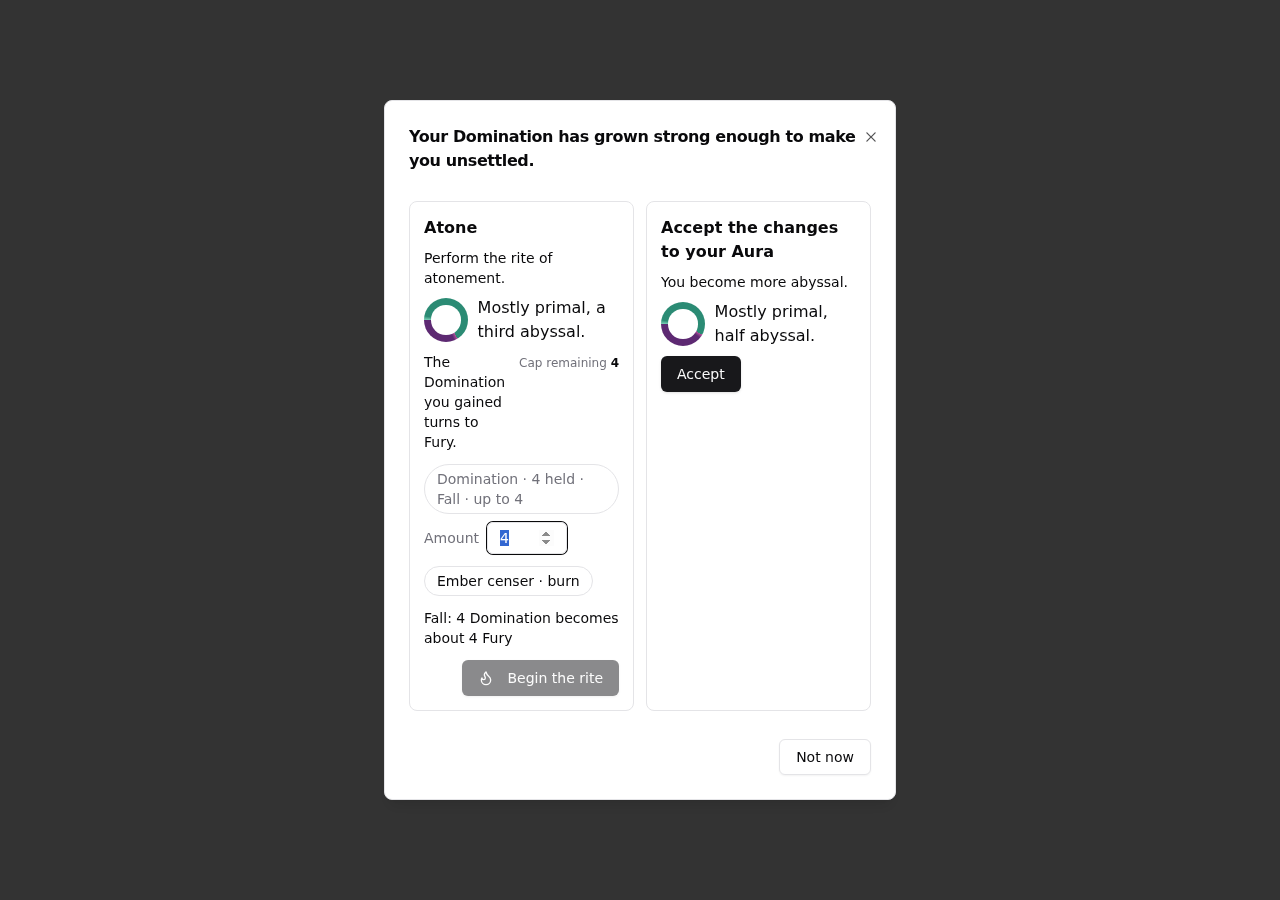
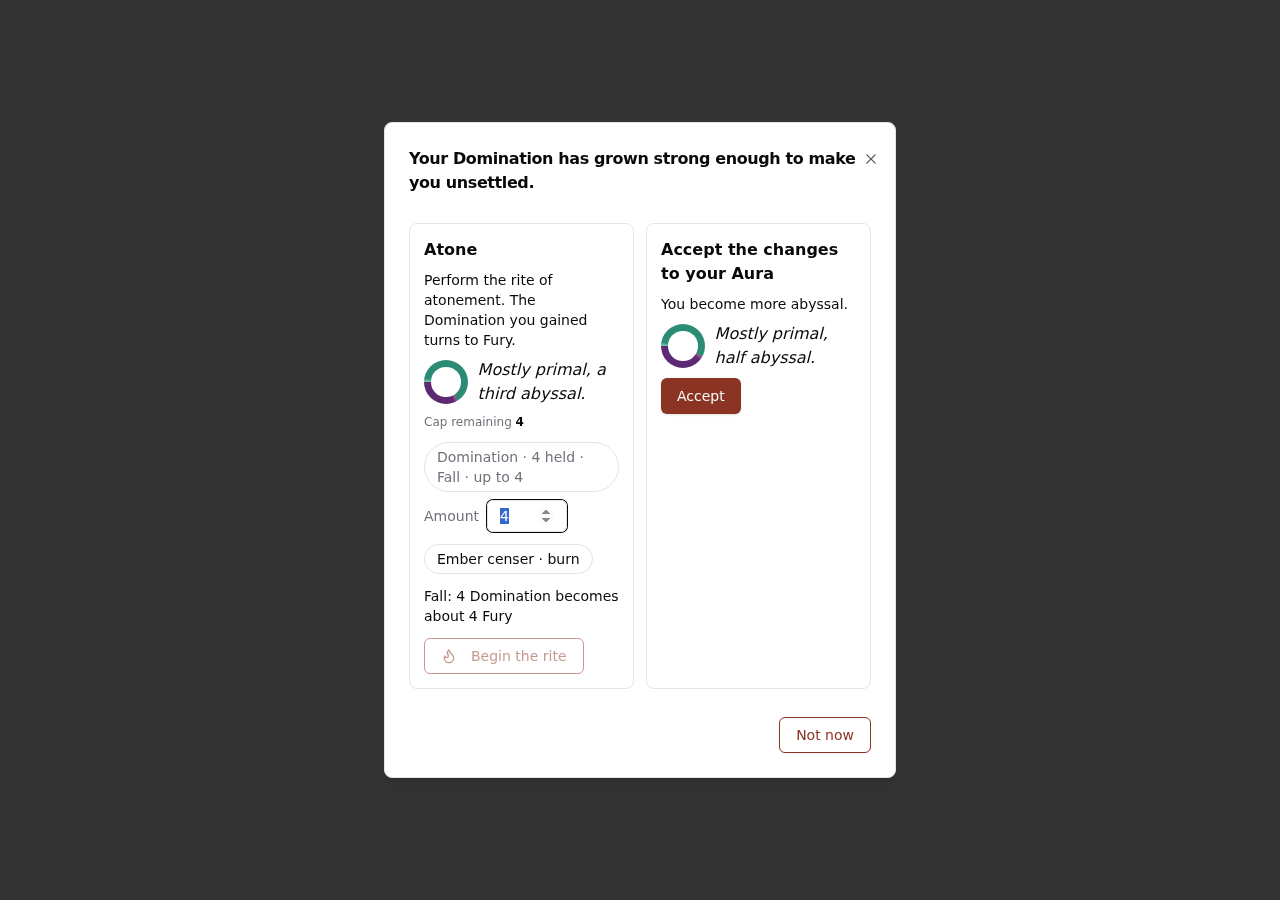
Demo fidelity re-review for #5123 after the fixes

diff --git a/docs/reviews/issue-5123/demo-fidelity.md b/docs/reviews/issue-5123/demo-fidelity.md
@@ -1,114 +1,88 @@
-# Demo fidelity review: #5123 "A character with several resonances"
+# Demo fidelity review: #5123 "A character with several resonances" (round 2, after the fixes)
 
-**Verdict: FAIL** (defects below; no BLOCKED criterion hides a pass). Nothing here is a
-rewrite of the design: every FAIL is a place where the built surface disagrees with the
-approved demo and nothing later in the issue overrides the demo.
+**Verdict: PASS** for everything rendered. All six defects from round 1 (F1 to F6) are
+fixed and re-checked on screen, and the two divergences the fixes were meant to close
+(the settled ring, the Gift thread in the Pull Threads dialog) now match the demo. What is
+left is four open scope questions for the human (S1 to S4 below) and the BLOCKED items in
+"Not exercised"; none of them is a rendered defect the fixes could have closed.
 
 ## Identity of what was reviewed
 
 | Item | Value |
 |---|---|
-| Reviewed commit | `29881d52b78db8efb8619966e3282e4539794f8d` (branch `feature-5123-a-character-with-several-resonances-mixe`, rebased on origin/main). This is the first parent of the evidence commit. |
-| Approved design | Demo, round 3: https://claude.ai/artifact/CghH6yiEwjFns6E8nLrs1Y (linked from the issue body, "Demo (approved direction, round 3)"). Read from the local copy of the published source, `issue-5123-several-resonances.html` (493 lines, read in full). |
-| Issue rulings read | Issue body and comments (`gh issue view 5123`). Spec rulings 15-18 (intro text, spec'd halo, Unsettled wording) and the Frontend list. No comment overrides the demo on any item below. |
-| Environment | Local workstation, Chromium headless shell (Playwright 1.65 driving the installed 1208 build), vite dev server on :5199 serving the real app code at the reviewed commit. No Evennia server, no :4001/:4002, no database created (`rt_5123` was never made; `dropdb --if-exists` confirmed). |
-| Viewport and theme | 1280 x 900, light theme, for the demo and the app. One dark-theme pair for the unsettled aura. Web fonts could not load (no network), so serif/sans fallbacks stand in on **both** sides. 390 x 900 for one Settle dialog shot. |
-| Fixture versus live | **Everything the app drew was fixture data.** Every `/api/**` call was answered by Playwright route fixtures shaped like the serializers (types from `frontend/src/generated/api.d.ts`; the CG fixtures are the repo's own `character-creation/__tests__/fixtures.ts`). The frontend code, CSS, routing, providers and React Query were real. No live backend was exercised for any UI shot. |
-| Real pages versus harness | Screen 1: the real `/characters/create` page, Gift stage. Screen 3 and the Accept-only dialog: the real `/characters/1` sheet, Magic section. Screen 2 (Pull Threads dialog, Pull picker) and Screen 4's scene dialog (Atone + Accept): **a throwaway harness** that mounts the real `ThreadPullDialog`, `ThreadPullPicker` and `SettleAuraDialog` under the app's real providers and `index.css`, because those are reached in play only through combat or a live scene. See "Not exercised". |
-| Capture sources | `capture-spec.ts.txt`, `capture-harness.tsx.txt`, `capture-config.ts.txt` in this directory (renamed `.txt` so no linter or test runner picks them up). To rerun: copy the spec to `frontend/e2e/evidence/review-5123.spec.ts`, the harness to `frontend/src/review5123.tsx` plus a root `review5123.html` that loads it, start `pnpm exec vite --port 5199`, run Playwright with the config. |
-| Backend check (Screen 5) | `just test-fast world.character_creation.tests.test_weighted_resonances`: 16 tests, OK, run at the reviewed commit. Its assertions, not its pass count, are what is compared below. |
+| Reviewed commit | `02979e9ea1d0f14612e5e703c4a63287213dbf2b` (branch `feature-5123-a-character-with-several-resonances-mixe`). It is the first parent of this evidence commit. Round 1 reviewed `29881d52b`; the fixes are `291592a07` and `02979e9ea`, on top of round 1's own evidence commit `4bf61de4b`. |
+| Approved design | Demo, round 3: https://claude.ai/artifact/CghH6yiEwjFns6E8nLrs1Y (linked from the issue body). Read from the local copy of the published source, `issue-5123-several-resonances.html` (493 lines, read in full in round 1; re-rendered unchanged this round). |
+| Issue rulings read | Issue body and comments (`gh issue view 5123`): spec rulings 15-18 and the Frontend list. No comment overrides the demo on any item below. The fix notes (`.superpowers/sdd/plan-5123/demo-fix-report.md`) were read for what was changed, not trusted for what renders. |
+| Environment | Local workstation. Chromium headless shell (Playwright 1.65 driving the installed 1208 build). vite dev server on :5199 serving the real app code at the reviewed commit. No Evennia server, nothing on :4001/:4002, no database created (`rt_5123` was never made). |
+| Viewport and theme | 1280 x 900, light theme, for the demo and the app. One dark pair for the unsettled aura. 390 x 900 for one Settle dialog shot. Web fonts could not load (no network), so serif/sans fallbacks stand in on **both** sides. |
+| Fixture versus live | **Everything the app drew was fixture data**: every `/api/**` call answered by Playwright route fixtures shaped like the serializers (types from `frontend/src/generated/api.d.ts`; the CG fixtures are the repo's own `character-creation/__tests__/fixtures.ts`). The frontend code, CSS, routing, providers and React Query were real. No live backend answered any UI shot. |
+| Real pages versus harness | Screen 1: the real `/characters/create` page, Gift stage. Screen 3 and the Accept-only dialog: the real `/characters/1` sheet, Magic section. Screen 2 (Pull Threads dialog, Pull picker) and Screen 4's scene dialog (Atone + Accept): **a throwaway harness** mounting the real `ThreadPullDialog`, `ThreadPullPicker` and `SettleAuraDialog` under the app's real providers and `index.css`, because those are reached in play only through combat or a live scene. |
+| Capture sources | `capture-spec.ts.txt`, `capture-harness.tsx.txt`, `capture-config.ts.txt` in this directory (renamed `.txt` so no linter or runner picks them up). To rerun: copy the spec to `frontend/e2e/evidence/review-5123.spec.ts`, the harness to `frontend/src/review5123.tsx` plus a root `review5123.html` that loads it, start `pnpm exec vite --port 5199`, run Playwright with the config. |
+| Backend check (Screen 5) | Not re-run this round: the fixes touch frontend files only (`git diff 4bf61de4b..HEAD --stat` lists no backend file). Round 1's run of `world.character_creation.tests.test_weighted_resonances` (16 tests, OK) stands for the rows. |
+| Screenshots | All 37 PNGs in this directory were deleted and re-captured at the reviewed commit. `demo-*.png` come from the demo's own page, `app-*.png` from the app. The dialog Gift-thread case is in them: the fixture now offers the Gift thread and the spec ticks it. |
 
-Screenshots are committed beside this report. Demo images are rendered from the demo's
-own page at the same viewport and theme (`demo-*.png`); app images are `app-*.png`.
+## Round 1 defects, re-checked
 
-## Defect list (FAIL items)
-
-| # | Screen | Finding | Where |
+| # | Was | Now | Evidence |
 |---|---|---|---|
-| F1 | 3 (Sineater) | The aura sentence contradicts the halo it sits beside. Fixture: Celestial 56, Abyssal 44, a third of everything from the Mire. The halo draws half celestial, a little own-abyssal, a big Mire stretch (correct). The sentence says "Nearly all celestial, a tenth abyssal. A third of what you have gained came from the Mire." The demo says "Half celestial. A little abyssal of your own, and a darker share taken from the Mire." Cause: `AuraHalo` lifts the Mire out of the Abyssal share (`splitMire`), then builds the sentence from the shares left over (`auraSentence(own)`), so every share is read against a smaller whole than the halo uses. | `frontend/src/magic/components/AuraHalo.tsx` (`splitMire`, `split`), `frontend/src/magic/aura.ts` (`auraSentence`) |
-| F2 | 4 (Atone card) | The Atone exit puts the line "The Domination you gained turns to Fury." **after** the halo and squeezes it into a 5-line column beside "Cap remaining 4"; the demo makes it the second sentence of the exit's opening line. "Begin the rite" is a right-aligned solid button (greyed until a component is picked); the demo draws it as a left-aligned outline button. Wording, order and cramp are the defect. (See ruling R4: the rite's controls themselves are not.) | `SettleAuraDialog.tsx` (`CapBlock`, the `settle-exit-atone` section) |
-| F3 | 4 (opened from the sheet) | With only the Accept exit, its card fills the left half of a two-column grid and the right half is empty. The demo's frame shows the exit full width. | `SettleAuraDialog.tsx` (`grid gap-3 sm:grid-cols-2` with one child) |
-| F4 | 4 (colour of actions) | In the Settle dialog "Accept" and "Not now" render near-black / neutral, while the demo draws rust (`Accept` solid rust, `Not now` rust outline) and the sheet's own "Settle your aura" button beside it is rust. The dialog portals outside `.refsheet`, which carries the rust fallback ("the sheet route never establishes a realm", `sheet.css`), so a visitor with no realm set reaches this. | `SettleAuraDialog.tsx`, `character_sheets/sheet.css` (`:root:not([data-realm]) .refsheet`) |
-| F5 | 1 (aura label) | "Your aura" sits **below** the halo sentence; the demo puts it above, as a small caps label over an italic sentence. The sentence is also upright where the demo's is italic. Ruled below (R1): defect, small. | `ResonanceWeights.tsx` (label passed as `children`, which `AuraHalo` renders after the words) |
-| F6 | 2 (perk rows) | Perk rows are plain text lines. The demo draws each as a shaded bar with the value right-aligned and the narrative snippet as a second line inside it. Values sit next to the label instead of in a right column, so a column of values does not read down. | `PayerOptions.tsx` (`PerkRows`) |
+| F1 | Sineater sentence read "Nearly all celestial, a tenth abyssal" beside a halo of about half celestial | **FIXED.** Reads "Half celestial, a tenth abyssal. A third of what you have gained came from the Mire." Same fixture (Celestial 56, Abyssal 44, a third from the Mire). The sentence now agrees with the halo; the key "your own / from the Mire" is under it. | `app-screen3-sineater.png` |
+| F2 | Atone: the "turns to Fury" line below the halo and cramped; Begin the rite a right-aligned solid button | **FIXED.** The card opens "Perform the rite of atonement. The Domination you gained turns to Fury." in one paragraph; "Cap remaining 4" is a small muted line; "Begin the rite" is a left-aligned rust outline button (shown pale here because no component is picked, so it is disabled). The rite's controls are still between the halo and the button, ruled justified in round 1. | `app-screen4-scene-atone-and-accept-1280.png`, `-390.png` |
+| F3 | Lone Accept card filled half of a two-column grid | **FIXED.** From the sheet the Accept card spans the dialog. With both exits they sit two-up at 1280 and stack at 390. | `app-screen4-sheet-accept-only.png`, `app-screen4-scene-atone-and-accept-*.png` |
+| F4 | Accept and Not now black and neutral | **FIXED.** Accept is solid rust, Not now and Begin the rite are rust outlines, on the sheet route with no realm set (the state that failed). | `app-screen4-sheet-accept-only.png`, `app-screen4-sheet-after-accept.png` |
+| F5 | "Your aura" below the sentence; sentence upright | **FIXED.** "YOUR AURA" is a small caps label above an italic sentence. | `app-screen1-resonance-step.png` |
+| F6 | Plain text perk rows | **FIXED.** Each perk is a shaded bar, label left, value right-aligned, the narrative snippet a second line inside the bar. Applies in the dialog and the picker. | `app-screen2-dialog-fury-pays.png`, `app-screen2-picker.png` |
+| S1 | `ThreadPullDialog` never offered a Gift thread | **FIXED.** The Pull Threads dialog lists "Pyromancy" (a Gift thread) with the other threads, and ticking it shows its Pay with list (Fury, Domination, Wonder) with the perks per resonance, the makeup line "Level 3 - mostly Fury, some Domination", Inspect perks, and the cost line. The request carried the payer (`payers: {"1": 13}`). | `app-screen2-dialog-initial.png`, `-fury-pays.png`, `-domination-pays.png`, `-inspect-perks.png` |
+| S2 | Settled ring drawn in the settled affinities' colours | **FIXED.** One thin neutral dashed ring, as in the demo; while unsettled it is tinted in the glow of the affinity unsettling the character (the pink-violet ring in the unsettled frame, as in the demo's). Neutral on the settled and faded halos. | `app-screen3-*.png`, `app-dark-screen3-unsettled.png` |
 
-## Scope questions for the human (not counted as FAIL)
+## Open scope questions for the human (not counted as FAIL)
 
-- **S1. The Pull Threads dialog never offers a Gift thread.** The demo's Screen 2 example is
-  "Gift thread - Pyromancy", reached in "Cast - Pull threads". `ThreadPullDialog.tsx`
-  `isThreadEligible` (unchanged by this PR) offers only relationship, facet and covenant
-  threads, plus trait/technique threads in combat. A Gift thread in the fixture is absent from
-  the dialog (`app-screen2-dialog-initial.png`: two threads listed, no Pyromancy). The
-  picker (`ThreadPullPicker`, scenes) does show it with the full Pay with choice
-  (`app-screen2-picker.png`). So the Gift thread, the one thread every mixed character
-  starts with, cannot be pulled with a payer choice from the dialog. The spec lists both
-  files; it does not say the dialog may stay narrower. Decide: widen the dialog or write down
-  that casting reaches Gift threads only through the picker.
-- **S2. Settled ring colours.** The demo draws "who the character is" as one thin neutral
-  dashed ring (abyssal-tinted only in the unsettled state). The build draws it as dashed arcs
-  in the settled affinities' own colours. It reads well and carries more (a faded streak's
-  purple arc survives, `app-screen3-faded.png`), but it is not what was approved, and no
-  ruling records it. The approved colours themselves are exact (see R3).
-- **S3. Atone preview.** The Atone exit's mini halo draws the settled shares ("who you
-  are"), which is the best case of a full atonement. The rite's actual result depends on
-  the check, so the preview is an upper bound. The demo shows the same picture, so this is
-  noted, not a defect.
-- **S4. Exit arrangement.** The demo's dialog frame stacks the two exits; the build puts them
-  side by side from the `sm` breakpoint (stacked at 390 wide, `app-screen4-scene-atone-and-accept-390.png`).
-  The demo's own `.exits` grid is auto-fit, so side by side is a fair reading. Noted.
-
-## Rulings on the divergences named in the brief
-
-- **R1. Screen 1 step label and heading.** The build renames the funnel step "Your
-  Resonance" (rendered as the entry name, with the tag "Step 4 of 5") and drops the demo's
-  "IV - Resonance" label and the separate h3. The funnel is an existing five-entry grammar
-  (`GiftStage.tsx` `FunnelStep`: Tradition, Gift, Techniques, Your Resonance, Anima Check,
-  each tagged "Step n of 5"), so a roman-numeral stage label on one step would be the odd one
-  out. The words "Your Resonance" are present; the intro copy is present word for word.
-  **Ruling: acceptable, not a defect.** It is not recorded in the spec; the human may
-  want it written down. The "Your aura" label placement **is** a defect (F5).
-- **R2. Screen 3 colours.** MATCH. `sheet.css` defines the approved tokens on `:root` and the
-  rendered page resolves them: Celestial `#e6c55a`, Primal `#2f8a74`, Abyssal `#5b2a6f`,
-  Mire `#4b4a35`, with the demo's glows (`#fff1b8`, `#7fd1b9`, `#b0559a`, `#8a8660`). Read
-  off the running page (`getComputedStyle(:root)`), and the halo's computed
-  `background-image` is a conic gradient in `rgb(47,138,116)`, `rgb(91,42,111)` and
-  `rgb(127,209,185)` (primal, abyssal, primal glow). Both the CG preview and the sheet reach
-  them because `AuraHalo` imports `sheet.css`; the tokens are not left to a stylesheet linked
-  only from another page.
-- **R3. Screen 4 Atone card layout.** Split: the rite's controls (source chip, amount,
-  component pills, rate line, cap) are today's drift-correction rite and are required to
-  run it; the demo omitted them for space. That part is justified. Order, cramp and button
-  style are F2.
+- **S1. The demo's "Lasts" row.** The Inspect perks panel in the demo shows "Lasts: until
+  the end of the round" under a perk. The build has no such row, and `ResolvedPullEffect`
+  carries no duration field. The issue never mentions it. It is an unbuilt demo
+  affordance nobody wrote down: either add the field and the row or strike it from the
+  approved design. (The panel also shows "Amount" where the demo says "Strength", and
+  adds a "Worked out: 2 x 1" row; the demo flags its copy as placeholder.)
+- **S2. Pull Threads dialog colours with no realm.** The dialog's selected tier and its
+  confirm button render near-black in the harness, where the demo draws them rust. The
+  dialog's primary is the realm's, and nothing sets a realm in the harness (the same
+  cause as F4, which the fixes closed for the Settle dialog only). Whether a real game
+  session has a realm set is not visible from here. If one can reach the dialog with none, it
+  needs the same fallback.
+- **S3. Step label on Screen 1.** Ruled acceptable in round 1 and still the case: the
+  step is "Your Resonance" with the tag "Step 4 of 5" in the funnel; the demo's "IV -
+  Resonance" label and separate h3 are not drawn. Not recorded in the spec.
+- **S4. Atone preview.** The Atone card's mini halo draws who the character is, the best
+  case of a full atonement; the rite's real result depends on the check. The demo draws
+  the same picture. Noted.
 
 ## Visual checklist
 
 `MATCH` = compared by eye, demo and app, same viewport and theme, and the same. `DIFF` =
-differs (finding noted). `N/A` = demo annotation, not UI.
+differs (reason noted). `N/A` = demo annotation, not UI.
 
-### Screen 1: Character creation, Gift stage (demo `demo-frame-01.png`, `demo-screen1.png`; app `app-screen1-10of10-1280.png`, `app-screen1-resonance-step.png`, `app-screen1-9of10-1280.png`)
+### Screen 1: Character creation, Gift stage (demo `demo-frame-01.png`, `demo-screen1.png`; app `app-screen1-10of10-1280.png`, `app-screen1-resonance-step.png`, `app-screen1-9of10-1280.png`, `app-screen1-complete-step-closed-1280.png`)
 
 | Demo element | Result |
 |---|---|
 | Player-screen frame bar | N/A (demo chrome) |
-| "IV - Resonance" step label | DIFF, ruled acceptable (R1): app shows "Step 4 of 5" in the funnel entry |
-| "Your Resonance" heading | MATCH in words; it is the funnel entry name, not an h3 (R1) |
+| "IV - Resonance" step label | DIFF, ruled acceptable (S3): the app's step tag reads "Step 4 of 5" |
+| "Your Resonance" heading | MATCH in words; it is the funnel entry name (S3) |
 | Intro paragraph 1 ("Resonance is what powers your magic ...") | MATCH, word for word |
 | Intro paragraph 2 ("Most people are moved by more than one thing ...") | MATCH |
-| Budget line "10 of 10 placed" | MATCH (`aria-live` line; reads "9 of 10 placed" mid-spread) |
-| Fury row: name, PRIMAL tag, - button, six pips, + button | MATCH (buttons are grey outlines, not primary-coloured outlines; cosmetic) |
+| Budget line "10 of 10 placed" | MATCH (reads "9 of 10 placed" mid-spread) |
+| Fury row: name, PRIMAL tag, - button, six pips, + button | MATCH (the buttons are grey outlines, not rust outlines; cosmetic, same as round 1) |
 | Wonder row: one pip | MATCH |
 | Domination row: ABYSSAL, three pips | MATCH |
-| Mercy row: CELESTIAL, only a + button | MATCH (+ is greyed at a full budget, a state the demo does not show; correct behaviour) |
-| Row description and codex line | MATCH (rows show descriptions; demo says it left them out for space and "as today") |
-| Halo, primal/abyssal with glow edges | MATCH (same proportions, same colours, same ring thickness) |
-| "Your aura" label above the sentence | DIFF (F5) |
-| Sentence "Mostly primal, a third abyssal." | MATCH in words; upright, not italic (F5) |
+| Mercy row: CELESTIAL, only a + button | MATCH (+ greyed at a full budget, a state the demo does not show) |
+| Row description and codex line | MATCH (the demo says it left them out for space and "as today") |
+| Halo, primal/abyssal with glow edges | MATCH (same proportions, colours, ring thickness) |
+| "Your aura" label above the sentence | MATCH (F5 fixed) |
+| Sentence "Mostly primal, a third abyssal." | MATCH, italic |
 
 Tested interactions: from 9 of 10 placed (Fury 6, Wonder 1, Domination 2) pressed "More
-Domination"; the draft PATCH carried the new weights, the line read "10 of 10 placed", the
+Domination": the draft PATCH carried the new weights, the line read "10 of 10 placed", the
 aura sentence moved from "a fifth abyssal" to "a third abyssal", the + buttons locked, and
-the step closed itself as done (`app-screen1-complete-step-closed-1280.png`); reopened by
-pressing the step name. No page errors.
+the step closed itself as done; reopened by pressing the step name. No page errors.
 
 ### Screen 2: Pulling threads (demo `demo-frame-02.png`, `demo-frame-03.png`, `demo-screen2.png`; app `app-screen2-dialog-*.png`, `app-screen2-inspect-*.png`, `app-screen2-picker.png`)
 
@@ -116,26 +90,26 @@ pressing the step name. No page errors.
 |---|---|
 | Title "Cast - Pull threads" | DIFF in wording only: "Pull Threads" (existing dialog title) |
 | Tier 1 / 2 / 3, tier 2 selected | MATCH in behaviour; labels read "Tier 1", "Tier 2" |
-| Gift thread card with makeup "Level 3 - mostly Fury, some Domination" | DIFF for the dialog (S1: no Gift thread offered); MATCH in the picker (`app-screen2-picker.png`); a Facet thread with the same two resonances shows the makeup line in the dialog |
+| Gift thread "Pyromancy" with "Level 3 - mostly Fury, some Domination" | MATCH in the dialog and in the picker (S1 round 1 fixed) |
 | "Pay with" label and three payers, starting on the leading one | MATCH (Fury selected first) |
-| Payer row: radio, name, "3 Fury - you have 22" | MATCH, cost line word for word |
-| Fury perks: Bonus to this cast +4; Intensity +2 with its snippet | MATCH in content (F6: not shaded bars) |
-| Domination perks: Cowed, Bonus +2 with snippet | MATCH in content; "Grants Cowed 2" where the demo says "Grants Cowed against your target 2" (placeholder copy, noted) |
+| Payer row: radio, name, "3 Fury - you have 22" | MATCH, word for word |
+| Fury perks: Bonus to this cast +4; Intensity +2 with its snippet | MATCH, shaded bars with right-aligned values (F6 fixed) |
+| Domination perks: Cowed, Bonus +2 with snippet | MATCH; "Grants Cowed 2" where the demo says "Grants Cowed against your target 2" (placeholder copy) |
 | Wonder: "No perks on this thread", no Inspect link | MATCH |
 | "Inspect perks" link on Fury and Domination only | MATCH |
-| Rival thread: "Pays with Domination", "3 Domination", "+3" | MATCH (fixed payer, no choice; the demo's "against him" is placeholder copy) |
-| Preview line "3 Fury, 3 Domination - 4 anima" | DIFF in form: "Resonance cost: 3 Domination, 3 Fury   Anima cost: 4" (existing preview panel; amounts agree) |
-| Cancel / Pull | MATCH in layout; the confirm button reads "Select Pull" (existing label) |
-| Inspect panel title "Domination through Pyromancy" | MATCH ("through Cinders" for the fixture's thread) |
-| Inspect rows: Strength, From, Thread level used, Lasts | DIFF: "Amount" where the demo says "Strength" for a capability, and no "Lasts" row |
+| Rival thread: "Pays with Domination", "3 Domination", "+3" | MATCH (fixed payer, no choice, shaded bar) |
+| Preview line "3 Fury, 3 Domination - 4 anima" | DIFF in form: "Resonance cost: 3 Fury, 3 Domination   Anima cost: 4" (existing panel; amounts agree); with Domination chosen, "6 Domination" |
+| Cancel / Pull | MATCH in layout; the confirm button reads "Select Pull"; colours DIFF (S2) |
+| Inspect panel title "Domination through Pyromancy" | MATCH |
+| Inspect rows: Strength, From, Thread level used, Lasts | DIFF: "Amount" for "Strength"; no "Lasts" row (S1) |
 | Inspect "Thread level used: 2 (thread is 3; Domination is its second resonance)" | DIFF in wording: "(thread is 3; Domination is not its leading resonance)"; same facts |
-| Inspect "From: Domination pull perk for Gift threads, tier 2" | MATCH (reads "Facet threads" for the fixture's thread kind) |
+| Inspect "From: Domination pull perk for Gift threads, tier 2" | MATCH |
 | (not in demo) "Worked out: 2 x 1" row | Extra row the demo does not have |
 
-Tested interactions: ticked two threads; the mixed thread expanded to the Pay with list and
-the one-resonance thread to "Pays with Domination" with no choice; chose Domination; the
-dialog's next preview request carried `"payers":{"3":13}` (the request is recorded in the
-run log), and the cost line moved from "3 Domination, 3 Fury" to "6 Domination" (both threads now pay in Domination, `app-screen2-dialog-domination-pays.png`); opened Inspect perks on
+Tested interactions: ticked the Gift thread and the Relationship thread; the mixed thread
+expanded to the Pay with list and the one-resonance thread to "Pays with Domination" with
+no choice; chose Domination; the next preview request carried `"payers":{"1":13}` and the
+cost line moved from "3 Fury, 3 Domination" to "6 Domination"; opened Inspect perks on
 Domination. Picker: tier 2 on the Gift thread shows the same Pay with list. No page errors.
 
 ### Screen 3: Character sheet, aura (demo `demo-frame-04..07.png`, `demo-screen3.png`; app `app-screen3-*.png`, `app-screen3-*-page-1280.png`, `app-dark-screen3-unsettled.png`, `demo-dark-frame-unsettled.png`)
@@ -143,17 +117,23 @@ Domination. Picker: tier 2 on the Gift thread shows the same Pay with list. No p
 | Demo element | Settled | Unsettled | Faded | Sineater |
 |---|---|---|---|---|
 | Halo, approved colours, glow edges | MATCH | MATCH | MATCH | MATCH (gold, violet, murk in the demo's order) |
-| Dashed "who you are" line | DIFF (S2, coloured arcs) | DIFF (S2) | DIFF (S2) | DIFF (S2) |
-| Words | MATCH "Mostly primal, a third abyssal." | MATCH, the ruled Unsettled line | MATCH "Nearly all primal, a trace of abyssal." (at 94/6; the demo's picture shows 82/18, which its own words would call "a fifth", an inconsistency in the demo, not the build) | **DIFF (F1)** |
+| Dashed "who you are" ring | MATCH (thin neutral) | MATCH (tinted pink-violet, as the demo) | MATCH | MATCH |
+| Words | MATCH "Mostly primal, a third abyssal." | MATCH, the ruled Unsettled line | MATCH "Nearly all primal, a trace of abyssal." at 94/6 (the demo's picture is 82/18, which its own thresholds would call "a fifth"; a demo inconsistency, not the build's) | MATCH in agreement with the halo (F1 fixed); wording "a tenth abyssal" where the demo says "a little abyssal of your own" |
 | "Unsettled" status pill | n/a | MATCH | n/a | n/a |
-| "Settle your aura" button | n/a | MATCH, rust on the sheet | n/a | n/a |
+| "Settle your aura" button | n/a | MATCH, rust (amber in dark) | n/a | n/a |
 | Restless halo | n/a | MATCH (animated; none under reduced motion) | n/a | n/a |
 | Key "your own / from the Mire" | n/a | n/a | n/a | MATCH |
-| Sentence typeface | upright serif, larger than the demo's italic (minor) | same | same | same |
+| Sentence typeface | italic serif (F5 fixed) | same | same | same |
 
-Dark theme (unsettled): halo, pill and amber button MATCH the demo's dark frame; the pill
-and button read as in the demo. Tested interactions: opened the sheet's Magic section for
-four auras; the Unsettled aura's button opens the dialog.
+Colours: MATCH. The running pages resolve Celestial `#e6c55a`, Primal `#2f8a74`, Abyssal
+`#5b2a6f`, Mire `#4b4a35`, with the demo's glows (`#fff1b8`, `#7fd1b9`, `#b0559a`,
+`#8a8660`), read off `getComputedStyle(:root)`; the CG halo's computed `background-image`
+is a conic gradient in `rgb(47,138,116)`, `rgb(91,42,111)` and `rgb(127,209,185)`. The
+tokens reach both pages because `AuraHalo` imports `sheet.css`.
+
+Dark theme (unsettled): halo, ring, pill and amber button MATCH the demo's dark frame.
+Tested interactions: opened the sheet's Magic section for four auras; the Unsettled aura's
+button opens the dialog.
 
 ### Screen 4: Settle your aura (demo `demo-frame-08.png`, `demo-screen4.png`; app `app-screen4-scene-atone-and-accept-1280.png`, `-390.png`, `app-screen4-sheet-accept-only.png`, `app-screen4-sheet-after-accept.png`)
 
@@ -161,31 +141,33 @@ four auras; the Unsettled aura's button opens the dialog.
 |---|---|
 | Dialog heading, the Unsettled sentence | MATCH |
 | Atone card heading "Atone" | MATCH |
-| "Perform the rite of atonement. The Domination you gained turns to Fury." | DIFF (F2): second sentence moved below the halo |
-| Mini halo and "Mostly primal, a third abyssal." in the Atone card | MATCH (sentence upright, not italic) |
-| "Begin the rite" outline button, left | DIFF (F2) |
-| Rite controls (not in the demo) | Present: cap remaining, source chip, amount, component pills, rate line (R3, justified) |
+| "Perform the rite of atonement. The Domination you gained turns to Fury." | MATCH (F2 fixed; one paragraph) |
+| Mini halo and "Mostly primal, a third abyssal." in the Atone card | MATCH, italic |
+| "Begin the rite" outline button, left | MATCH in position and style (F2 fixed) |
+| Rite controls (not in the demo) | Present: cap remaining, source chip, amount, component pills, rate line. Today's rite; justified |
 | Accept card heading "Accept the changes to your Aura" | MATCH |
 | "You become more abyssal." | MATCH |
 | Mini halo with the accepted aura and its sentence | MATCH ("Mostly primal, half abyssal." where the demo says "much of it abyssal"; the words come from the shared thresholds) |
-| "Accept" solid button, left | MATCH in position and weight; colour DIFF (F4) |
-| "Not now", bottom right | MATCH in position; colour DIFF (F4) |
-| Outside a scene: Accept and Not now only | MATCH in content (the Atone card is absent); layout DIFF (F3) |
+| "Accept" solid rust button, left | MATCH (F4 fixed) |
+| "Not now" rust outline, bottom right | MATCH (F4 fixed) |
+| Outside a scene: Accept and Not now only | MATCH (F3 fixed: the Accept card is full width) |
+| Exit arrangement | Two-up at 1280, stacked at 390; the demo's frame stacks them (the demo's own grid is auto-fit) |
 
 Tested interactions: from the sheet pressed "Settle your aura": only the Accept exit
 shows; pressed Accept: one POST to `/api/magic/character-auras/42/accept/` and the result
 line "You settle into who you have become." showed. The fixture does not change the aura
 after accept, so the redraw to a settled halo is **not** evidenced here. In the scene
-harness both exits show side by side at 1280 and stacked at 390.
+harness both exits show.
 
-### Screen 5: What creation and play write (data, checked against the code)
+### Screen 5: What creation and play write (data)
 
-| Demo row | Check | Result |
-|---|---|---|
-| Creation: one `CharacterResonance` per picked resonance | `test_no_balance_granted_by_seed`: 3 rows for 3 picks, balances 0 | MATCH. It also writes a `CHARACTER_CREATION` ledger row per pick (lifetime 60/10/30), which the demo does not list. |
-| Creation: `CharacterAuraShare` per affinity, with a settled share equal to the weights | `test_settled_equals_starting_aura`: Primal 70/70, Abyssal 30/30 | MATCH |
-| Creation: Gift thread level 0, "starts with nothing put into it" | `test_gift_thread_rows_at_zero_heaviest_leads`: the thread holds a `ThreadResonance` row per pick at amount 0, heaviest leading | MATCH with a note: the build keeps a zero-amount row per pick rather than no rows, which the spec's "a thread always has a row" invariant requires; level and development are 0. |
-| Imbuing, Pull, Sineating, Atone, Accept rows | Not re-run here; covered by the backend tests in the diff | Not reviewed for this report |
+Unchanged by the fixes (no backend file in the diff since round 1). Round 1's result
+stands: creation writes one `CharacterResonance` per pick at balance 0 plus a
+`CHARACTER_CREATION` ledger row each; a `CharacterAuraShare` per affinity with the settled
+share equal to the weights (Primal 70/70, Abyssal 30/30); and a Gift thread at level 0
+holding a zero-amount `ThreadResonance` row per pick, heaviest leading. **MATCH**, with the
+round 1 notes (the ledger row and the zero-amount rows are not in the demo's table).
+Imbuing, Pull, Sineating, Atone and Accept rows were not reviewed here.
 
 ## Mandatory criteria
 
@@ -194,43 +176,38 @@ harness both exits show side by side at 1280 and stacked at 390.
 | Exact reviewed commit named | PASS |
 | Approved design reachable and read in full | PASS |
 | Rendered the built surfaces (not source reading) | PASS (fixture data; see boundary table) |
-| Screenshots committed beside this report | PASS (37 PNGs) |
-| Rules reach the page (finding 1): approved aura colours and halo/ring/dialog CSS | PASS. Tokens resolved on the running pages and the halo gradient computed; `AuraHalo` imports `sheet.css`. Run on the vite dev server, not the production bundle (see below). |
-| Host CSS contract (finding 2): surface uses the page's own tokens | PASS for CG (`cg.css` `.interview .resonance-*`), PASS for the sheet; FAIL for the Settle dialog's action colours (F4) |
-| Layout the demo shows (finding 3) | FAIL (F2, F3, F6; S1, S2, S4 for the human) |
-| Approved copy dropped (finding 4) | PASS with notes: intro, "Pay with", cost lines, "No perks on this thread", Unsettled line, Atone/Accept headings all present. Differences are placeholder-flagged wording (S1-adjacent): "against your target", "Strength", "Lasts", "second resonance", "Pull". |
-| Demo affordance silently unbuilt (finding 5) | FAIL for S1 (Gift thread in the dialog), unwritten in the spec; the demo's "Lasts" row on a perk is also unbuilt and unrecorded |
-| Divergence the build got right (finding 6) | Rule R1 (funnel step label), R3 (rite controls) accepted |
-| Screen 1 verdict | **Matches with noted gaps** (F5) |
-| Screen 2 verdict | **Matches with noted gaps** (F6, S1) |
-| Screen 3 verdict | **Diverges** on the Sineater sentence (F1); other states match with noted gaps (S2) |
-| Screen 4 verdict | **Matches with noted gaps** (F2, F3, F4) |
+| Screenshots committed beside this report | PASS (37 PNGs, all re-captured at the reviewed commit) |
+| Rules reach the page (finding 1): approved aura colours; halo, ring and dialog CSS | PASS. Tokens resolved on the running pages; the Settle dialog's rust now reaches the page with no realm set. Run on the vite dev server, not the production bundle. |
+| Host CSS contract (finding 2) | PASS for CG (`cg.css`), the sheet and the Settle dialog. The Pull Threads dialog's colours with no realm are S2. |
+| Layout the demo shows (finding 3) | PASS (F2, F3, F6 fixed) |
+| Approved copy dropped (finding 4) | PASS with notes: intro, "Pay with", cost lines, "No perks on this thread", the Unsettled line, the Atone/Accept headings, the Atone opening line are all present. The remaining wording differences are placeholder-flagged ("against your target", "Strength", "second resonance", "Pull"). |
+| Demo affordance silently unbuilt (finding 5) | OPEN: the "Lasts" row (S1), unrecorded in the spec. The Gift thread in the dialog is now built. |
+| Divergence the build got right (finding 6) | Accepted: funnel step label (S3), the rite's controls |
+| Screen 1 verdict | **Matches** (cosmetic gaps only) |
+| Screen 2 verdict | **Matches with noted gaps** (S1, S2; placeholder wording) |
+| Screen 3 verdict | **Matches** |
+| Screen 4 verdict | **Matches** (the rite's own controls are extra, justified) |
 | Screen 5 verdict | **Matches** |
 
 ## Not exercised (BLOCKED, never inferred as pass)
 
 - **BLOCKED: live backend.** No Evennia server was started; no UI shot used a real API
-  response. The wire shapes come from the generated types and the repo's fixtures, so a
-  serializer that disagrees with its own schema would not show here.
+  response. The wire shapes come from the generated types and the repo's fixtures.
 - **BLOCKED: the live scene and game pages.** The pull dialog (combat) and the Settle dialog
   with an open Atone offer (scene page via `DriftConversionOfferGate`) were mounted in a
-  harness, not reached through play. The auto-open strip ("Settle your aura" call-out)
-  was not drawn.
-- **BLOCKED: production bundle.** The vite dev server was used; the component CSS imports
-  are standard and resolved, but a built-bundle check was not run.
-- **BLOCKED: post-Accept redraw** (fixture does not change the aura).
+  harness. The auto-open strip ("Settle your aura" call-out) was not drawn.
+- **BLOCKED: production bundle.** The vite dev server was used.
+- **BLOCKED: post-Accept redraw** (the fixture does not change the aura).
 - Telnet `aura`, `aura atone`, `aura accept` are not UI and were not compared.
-- Fonts: Cinzel and EB Garamond could not load; letterforms differ from a real session on
-  both the demo and the app, so type sizes were compared, not faces.
+- Fonts: Cinzel and EB Garamond could not load, so type sizes were compared, not faces.
 
 ## Proposed mechanical companions
 
-- A test that renders `AuraHalo` for a Sineater aura (Celestial 56, Abyssal 44, Mire "a
-  third") and asserts the sentence's leading share word equals `shareInWords` of the
-  halo's own part, i.e. the sentence and the gradient read the same whole (guards F1).
-- A test that renders `SettleAuraDialog` with `offer={null}` and an unsettled aura and
-  asserts the Accept card spans the dialog's width (a single child must not sit in a
-  two-column grid) (guards F3).
-- A style test that, for every `--aura-*` token and every `aura-halo*` / `resonance-*` class
-  the three surfaces emit, asserts a rule exists in the CSS reached from the rendered
-  page's imports (the shape of `BuilderStylingTest`).
+- The round 1 proposals stand and the fixes added the first two as vitest cases
+  (Sineater sentence equals `shareInWords` of the halo's part; the lone Accept exit not in a
+  two-column grid), per the fix notes. Not re-run here.
+- A style test that, for every `--aura-*` token and every `aura-halo*` / `resonance-*` /
+  `aura-settle-dialog` class the three surfaces emit, asserts a rule exists in the CSS reached
+  from the rendered page's imports (the shape of `BuilderStylingTest`).
+- If S2 is confirmed, a test that renders `ThreadPullDialog` outside any realm and asserts
+  the confirm button's computed colour is the folio primary, not the shadcn default.
